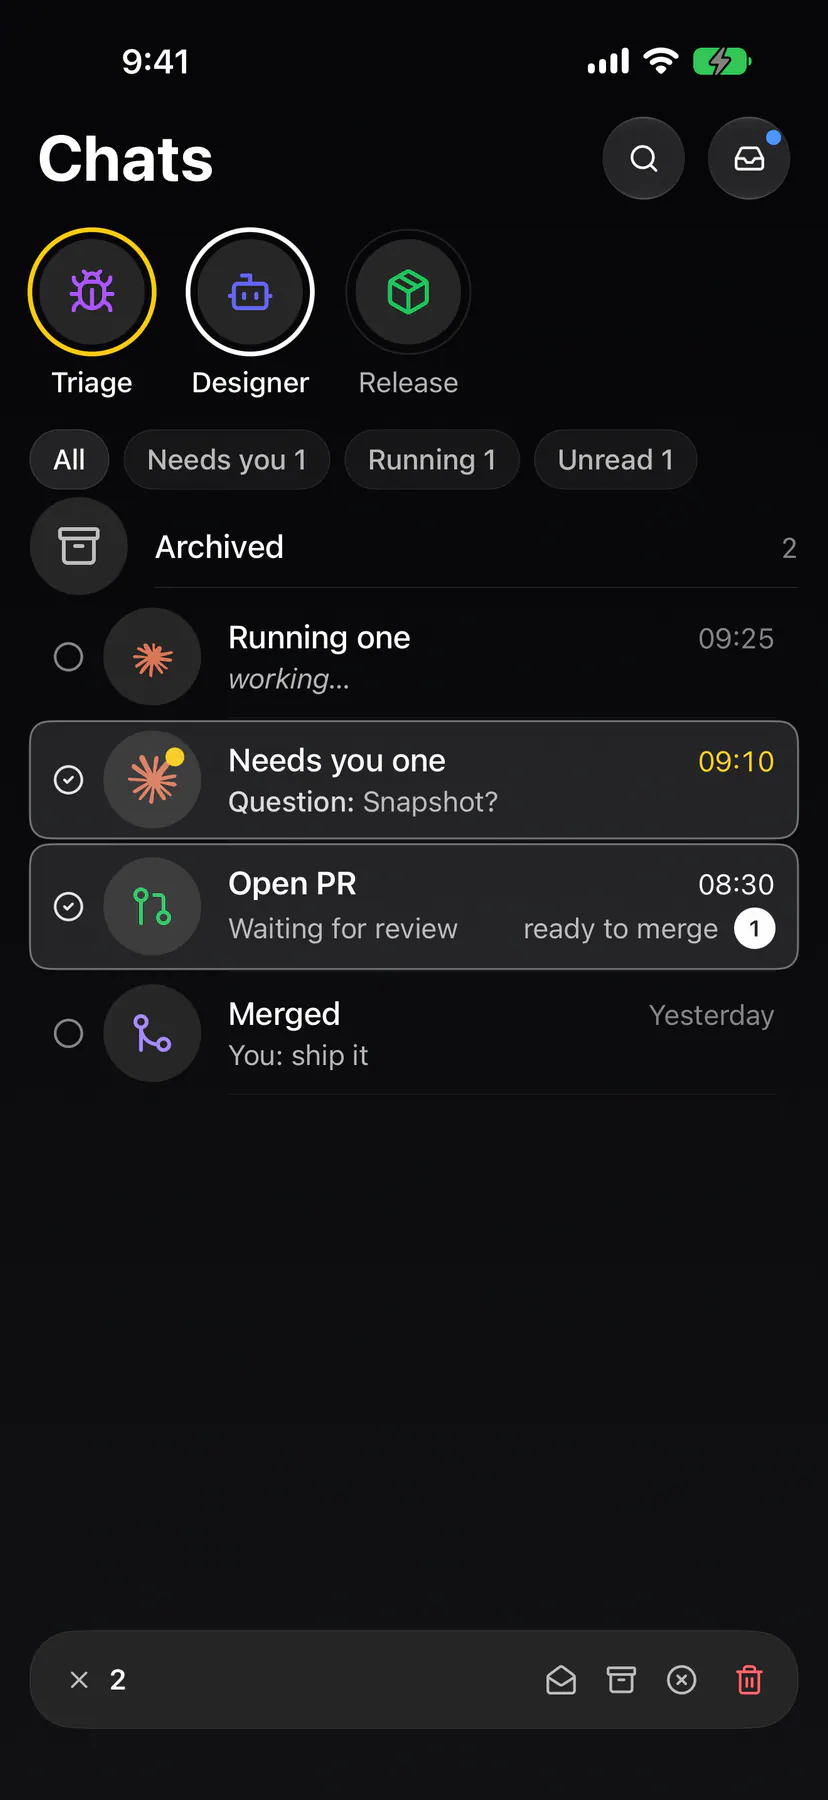
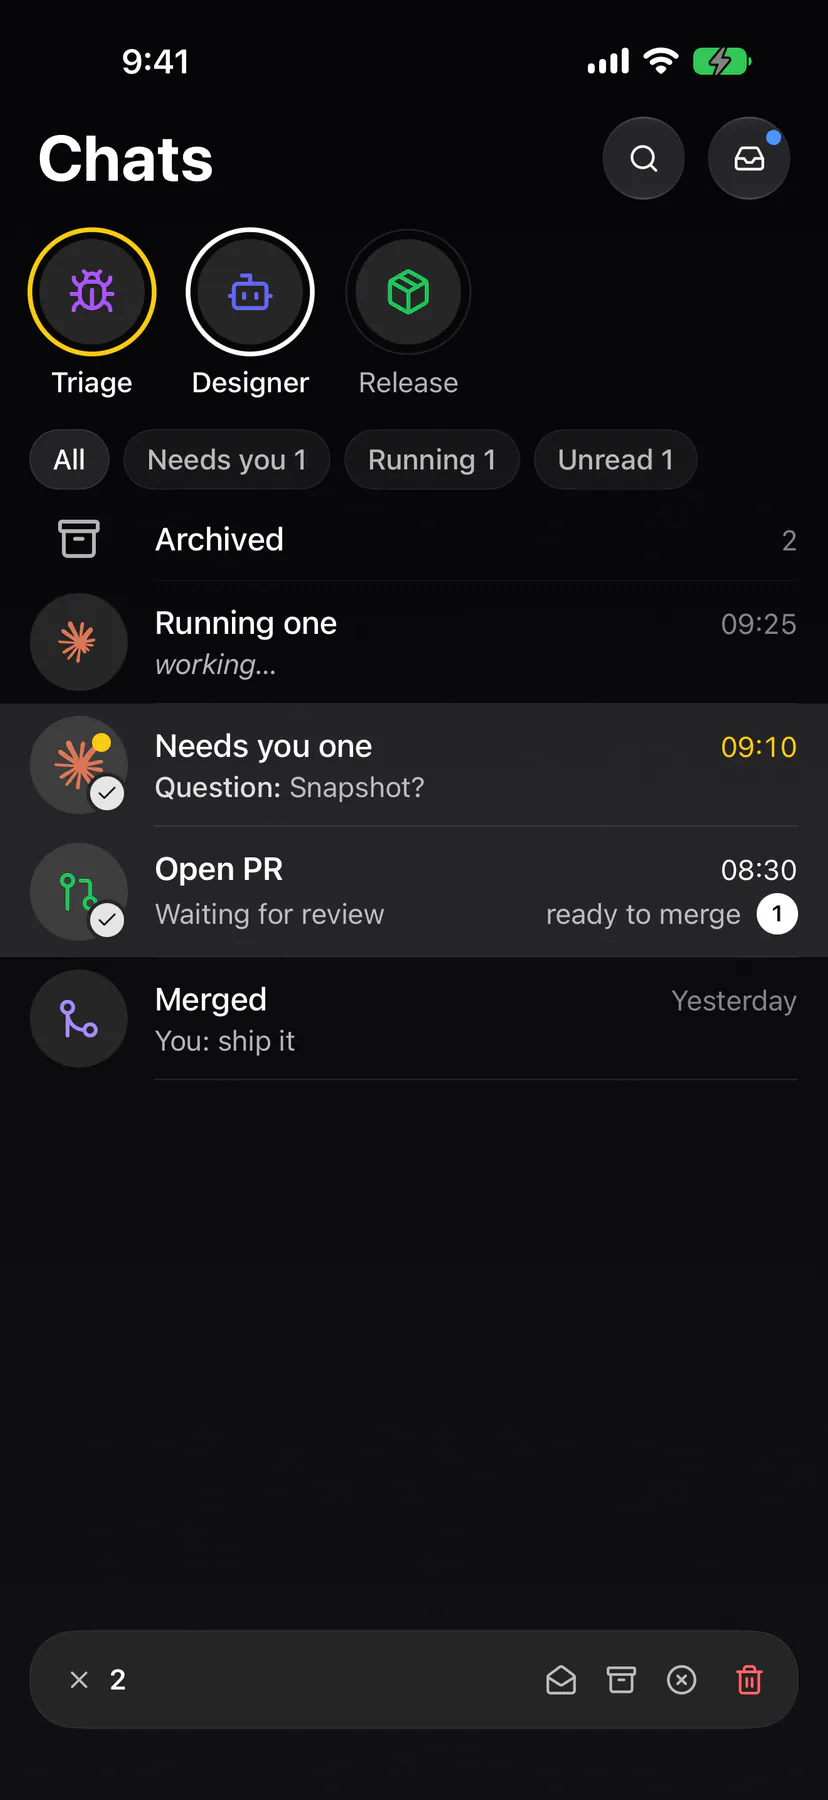
EXP-1388: iOS: chat selection = full-width tint + check badge on the disc (no shift), stronger selected disc, plain Archived glyph

Changed region(s): [[0.0, 0.28, 1.0, 0.6222], [0.936, 0.28, 0.9662, 0.3111]]

diff --git a/apps/ios/ExpUI/Sources/ChatList.swift b/apps/ios/ExpUI/Sources/ChatList.swift
@@ -13,6 +13,14 @@ public enum ChatListMetrics {
     /// inside the ring (`shell.bubbleRing`).
     public static let bubble = CGFloat(Chats.Shell.bubble)
     public static let bubbleRing = CGFloat(Chats.Shell.bubbleRing)
+    /// #EXP-1388 touch selection: the select badge (`shell.selectBadge`),
+    /// its ground ring (`shell.selectBadgeRing`) and check
+    /// (`shell.selectBadgeGlyph`); the Archived entry's plain glyph
+    /// (`shell.archivedGlyph`).
+    public static let selectBadge = CGFloat(Chats.Shell.selectBadge)
+    public static let selectBadgeRing = CGFloat(Chats.Shell.selectBadgeRing)
+    public static let selectBadgeGlyph = CGFloat(Chats.Shell.selectBadgeGlyph)
+    public static let archivedGlyph = CGFloat(Chats.Shell.archivedGlyph)
     /// Lead → text column.
     public static let gap: CGFloat = 14
     public static let rowVerticalPadding: CGFloat = 12
@@ -35,6 +43,12 @@ public struct ChatRowView<Lead: View>: View {
     private let unreadCount: Int
     private let word: String?
     private let wordIcon: String?
+    /// #EXP-1388: the row is selected (touch: the stronger disc + the
+    /// select badge; the host paints the full-width tint).
+    private let selected: Bool
+    /// false = the lead is a plain glyph centred in the disc column, no
+    /// disc, the row as tall as its text (the Archived entry).
+    private let leadDisc: Bool
     private let lead: Lead
 
     public init(
@@ -47,6 +61,8 @@ public struct ChatRowView<Lead: View>: View {
         unreadCount: Int = 0,
         word: String? = nil,
         wordIcon: String? = nil,
+        selected: Bool = false,
+        leadDisc: Bool = true,
         @ViewBuilder lead: () -> Lead
     ) {
         self.title = title
@@ -58,6 +74,8 @@ public struct ChatRowView<Lead: View>: View {
         self.unreadCount = unreadCount
         self.word = word
         self.wordIcon = wordIcon
+        self.selected = selected
+        self.leadDisc = leadDisc
         self.lead = lead()
     }
 
@@ -70,10 +88,7 @@ public struct ChatRowView<Lead: View>: View {
 
     public var body: some View {
         HStack(alignment: .center, spacing: ChatListMetrics.gap) {
-            lead
-                .frame(width: ChatListMetrics.leadDisc, height: ChatListMetrics.leadDisc)
-                .background(DesignTokens.Palette.muted, in: Circle())
-                .clipShape(Circle())
+            leadCell
                 .accessibilityHidden(true)
             VStack(alignment: .leading, spacing: 3) {
                 HStack(alignment: .firstTextBaseline, spacing: 8) {
@@ -131,6 +146,26 @@ public struct ChatRowView<Lead: View>: View {
         .accessibilityElement(children: .combine)
     }
 
+    @ViewBuilder
+    private var leadCell: some View {
+        if leadDisc {
+            lead
+                .frame(width: ChatListMetrics.leadDisc, height: ChatListMetrics.leadDisc)
+                .background {
+                    // A selected disc steps one grey notch up (fillActive
+                    // over muted) so it never blends into the row's tint.
+                    Circle().fill(DesignTokens.Palette.muted)
+                        .overlay { if selected { Circle().fill(GlassTokens.fillActive) } }
+                }
+                .clipShape(Circle())
+                .overlay(alignment: .bottomTrailing) {
+                    if selected { ChatSelectBadge() }
+                }
+        } else {
+            lead.frame(width: ChatListMetrics.leadDisc)
+        }
+    }
+
     private func previewText(_ preview: String) -> Text {
         let muted = Color.white.opacity(TextOpacity.secondary)
         if let previewLabel, preview.hasPrefix(previewLabel) {
@@ -142,9 +177,33 @@ public struct ChatRowView<Lead: View>: View {
     }
 }
 
-/// #EXP-1388 THE ARCHIVED ENTRY: the same chat row with `ui-archive` in its
-/// lead disc, the title `copy.archived.entry` and the archived count in the
-/// trailing time slot (muted), no preview line.
+/// #EXP-1388 touch selection (WhatsApp's reference): the filled primary
+/// check badge on a selected row's disc, ringed in the selected row's ground
+/// (the screen background under the fillActive tint) so it reads cut out of
+/// the disc; its outer box sits flush with the disc's bottom-right corner.
+public struct ChatSelectBadge: View {
+    public init() {}
+
+    public var body: some View {
+        let ring = ChatListMetrics.selectBadgeRing
+        let badge = ChatListMetrics.selectBadge
+        ZStack {
+            Circle().fill(DesignTokens.Palette.background)
+            Circle().fill(GlassTokens.fillActive)
+            Circle().fill(DesignTokens.Palette.primary)
+                .frame(width: badge, height: badge)
+            AppIcon(AppIcons.uiCheck, size: ChatListMetrics.selectBadgeGlyph, weight: .bold)
+                .foregroundStyle(DesignTokens.Palette.primaryForeground)
+        }
+        .frame(width: badge + 2 * ring, height: badge + 2 * ring)
+        .accessibilityHidden(true)
+    }
+}
+
+/// #EXP-1388 THE ARCHIVED ENTRY: the same chat row with the PLAIN
+/// `ui-archive` glyph (no disc) centred in the disc column, the title
+/// `copy.archived.entry` and the archived count in the trailing time slot
+/// (muted), no preview line; the row as tall as its text line.
 public struct ChatArchivedRow: View {
     let count: Int
 
@@ -153,8 +212,8 @@ public struct ChatArchivedRow: View {
     }
 
     public var body: some View {
-        ChatRowView(title: Chats.Copy.Archived.entry, time: "\(count)", preview: nil) {
-            AppIcon(AppIcons.uiArchive, size: 24)
+        ChatRowView(title: Chats.Copy.Archived.entry, time: "\(count)", preview: nil, leadDisc: false) {
+            AppIcon(AppIcons.uiArchive, size: ChatListMetrics.archivedGlyph)
                 .foregroundStyle(.white.opacity(TextOpacity.secondary))
         }
         .accessibilityIdentifier(Chats.TestIds.chatArchived)

diff --git a/apps/ios/Exponential/UI/Chats/ChatsView.swift b/apps/ios/Exponential/UI/Chats/ChatsView.swift
@@ -11,7 +11,8 @@ import SwiftUI
 /// newest activity first). A row opens the chat; a bubble's hold its agent
 /// menu. #EXP-1388 SELECTION + ARCHIVE: a row's long press ENTERS the
 /// multi-selection with that row (the row's touch menu is gone); while
-/// selecting every row leads with the issue list's selection glyph, a tap
+/// selecting nothing shifts, a selected row is a full-width tint with the
+/// check badge on its disc, a tap
 /// toggles and THE BAR (the issue list's bulk bar, in the tab bar's slot)
 /// acts on the selection (`chatSelectionActions`). The Archived entry row
 /// pushes the same list in `view: .archived` (the Archived page).
@@ -228,7 +229,7 @@ struct ChatsView: View {
             .trimmingCharacters(in: .whitespaces)
         default: nil
         }
-        let selected: Bool? = selectionActive ? selectedIds.contains(row.sessionId) : nil
+        let selected = selectionActive && selectedIds.contains(row.sessionId)
         return ChatRowView(
             title: row.title,
             time: row.time,
@@ -238,11 +239,12 @@ struct ChatsView: View {
             needsYou: row.needsYou,
             unreadCount: row.unreadCount,
             word: row.word?.text,
-            wordIcon: row.word == .stack ? AppIcons.prStack : nil
+            wordIcon: row.word == .stack ? AppIcons.prStack : nil,
+            selected: selected
         ) {
             ChatLeadMark(lead: row.lead, cli: lists.clis[row.sessionId])
         }
-        .chatSelectionLead(selected)
+        .chatSelectedTint(selected)
         // The issue row's tap + long-press (`bulkSelectable`): the same hold,
         // the release never toggles the row back out, ONE haptic (the list's).
         .bulkSelectable(

diff --git a/apps/ios/Exponential/UI/Components/BulkSelectionBar.swift b/apps/ios/Exponential/UI/Components/BulkSelectionBar.swift
@@ -208,19 +208,19 @@ extension View {
         }
     }
 
-    /// #EXP-1388: a chat row while the list selects (`selected` nil = not
-    /// selecting) = the issue row's selection cell: the glyph leads at the
-    /// issue card's 12pt inset with its 10pt gap, and a selected row wears
-    /// the issue row's highlight over the full row (pulled 1.5pt in top and
-    /// bottom, the issue list's 3pt row gap).
-    func chatSelectionLead(_ selected: Bool?) -> some View {
-        HStack(spacing: BulkSelection.glyphGap) {
-            if let selected {
-                SelectionGlyph(selected: selected)
+    /// #EXP-1388 (owner on #1286, WhatsApp's reference): a chat row while
+    /// the list selects. NOTHING shifts (no leading control column); a
+    /// SELECTED row wears a full-width flat tint (glass fillActive, edge to
+    /// edge of the screen past the list's `screenInset`, no radius, no
+    /// hairline). The badge on the disc is `ChatRowView(selected:)`'s.
+    func chatSelectedTint(_ selected: Bool, screenInset: CGFloat = 16) -> some View {
+        background {
+            if selected {
+                Rectangle()
+                    .fill(GlassTokens.fillActive)
+                    .padding(.horizontal, -screenInset)
+                    .allowsHitTesting(false)
             }
-            self
         }
-        .padding(.horizontal, selected == nil ? 0 : BulkSelection.rowInset)
-        .selectedRowHighlight(selected == true, verticalInset: 1.5)
     }
 }

diff --git a/apps/ios/Exponential/UI/Components/ChatSpecimens.swift b/apps/ios/Exponential/UI/Components/ChatSpecimens.swift
@@ -64,7 +64,8 @@ struct ChatListSpecimens: View {
     )
 
     /// #EXP-1388 `chat-selection`: the selected ids (nil = not selecting):
-    /// the Archived entry first, the rows lead with the selection glyph and
+    /// the Archived entry first, a selected row tinted full width with the
+    /// check badge on its disc (nothing shifts) and
     /// THE BAR stands in the tab bar's slot.
     var selection: [String]?
 
@@ -134,9 +135,10 @@ struct ChatListSpecimens: View {
                                 needsYou: row.needsYou,
                                 unreadCount: row.unread,
                                 word: row.word?.text,
-                                wordIcon: row.word == .stack ? AppIcons.prStack : nil
+                                wordIcon: row.word == .stack ? AppIcons.prStack : nil,
+                                selected: selection?.contains(row.id) == true
                             ) { ChatLeadMark(lead: row.lead) }
-                            .chatSelectionLead(selection.map { $0.contains(row.id) })
+                            .chatSelectedTint(selection?.contains(row.id) == true)
                         }
                     }
                     .padding(.horizontal, 16)

diff --git a/apps/ios/ExpCore/Tests/ChatsTests.swift b/apps/ios/ExpCore/Tests/ChatsTests.swift
@@ -530,9 +530,14 @@ final class ChatsTests: XCTestCase {
         XCTAssertEqual(Set(header.keys), ["pages", "buttons", "circle"])
         XCTAssertEqual(Set(shell.keys), [
             "tabs", "tabIcons", "bar", "boardTab", "boardMenu", "header", "boardChips", "leadDisc",
+            "selectBadge", "selectBadgeRing", "selectBadgeGlyph", "archivedGlyph",
             "bubble", "bubbleRing",
         ])
         XCTAssertEqual(shell["leadDisc"] as? Double, Chats.Shell.leadDisc)
+        XCTAssertEqual(shell["selectBadge"] as? Double, Chats.Shell.selectBadge)
+        XCTAssertEqual(shell["selectBadgeRing"] as? Double, Chats.Shell.selectBadgeRing)
+        XCTAssertEqual(shell["selectBadgeGlyph"] as? Double, Chats.Shell.selectBadgeGlyph)
+        XCTAssertEqual(shell["archivedGlyph"] as? Double, Chats.Shell.archivedGlyph)
         XCTAssertEqual(shell["bubble"] as? Double, Chats.Shell.bubble)
         XCTAssertEqual(shell["bubbleRing"] as? Double, Chats.Shell.bubbleRing)
 

diff --git a/apps/ios/ExpCore/Sources/Domain/Chats.swift b/apps/ios/ExpCore/Sources/Domain/Chats.swift
@@ -261,6 +261,13 @@ public enum Chats {
         }
         public static let boardChips: [BoardChip] = BoardChip.allCases
         public static let leadDisc: Double = 52
+        /// #EXP-1388 touch selection: the SELECT BADGE on a selected row's
+        /// lead disc (circle, its ground ring, the ui-check glyph) and the
+        /// Archived entry's plain glyph.
+        public static let selectBadge: Double = 18
+        public static let selectBadgeRing: Double = 2
+        public static let selectBadgeGlyph: Double = 12
+        public static let archivedGlyph: Double = 24
         public static let bubble: Double = 66
         public static let bubbleRing: Double = 3
     }
